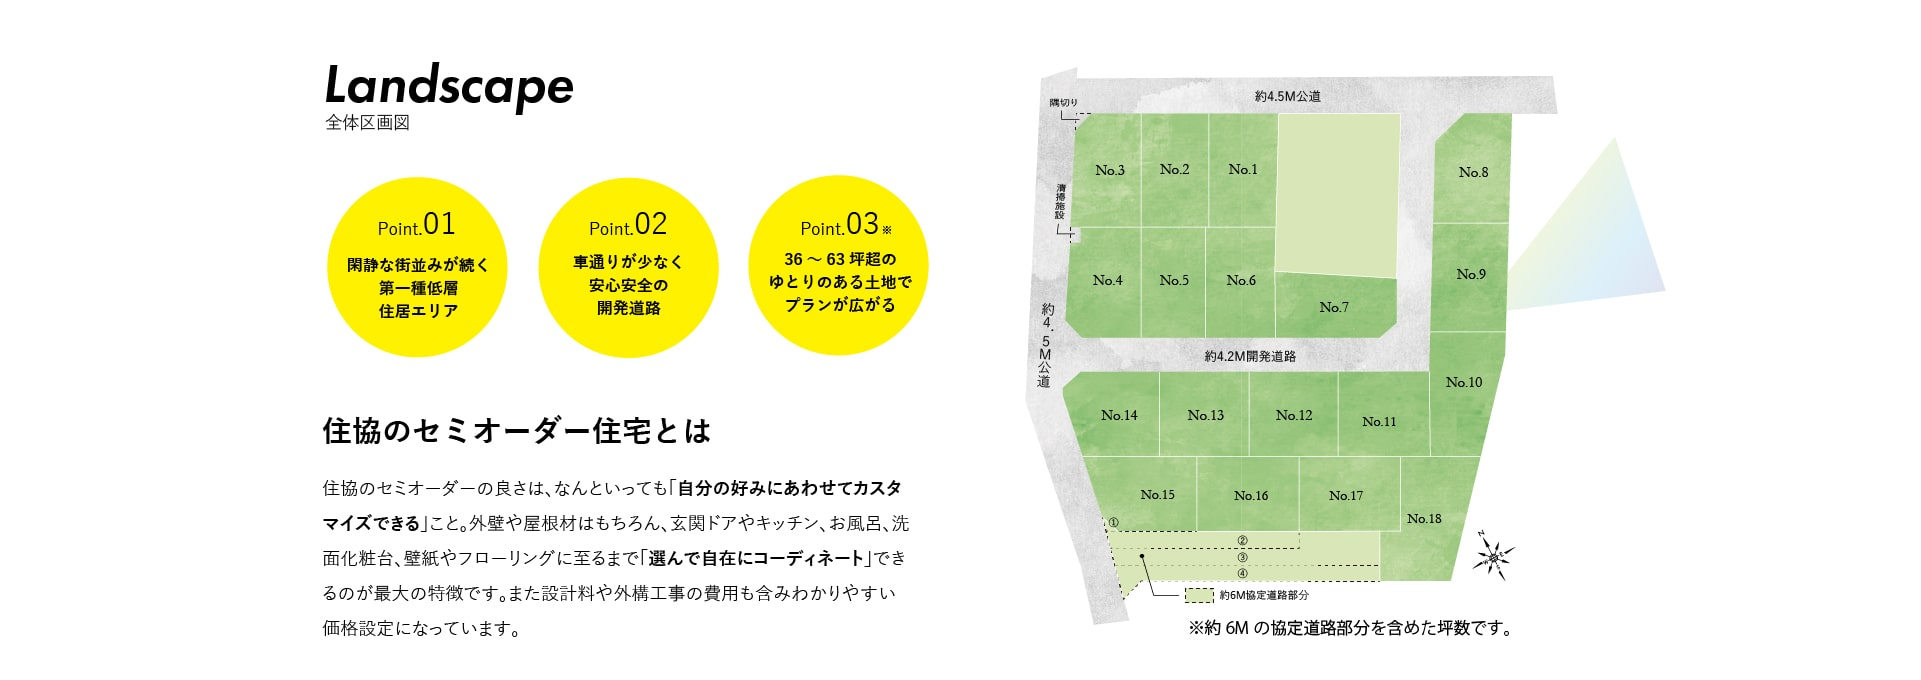
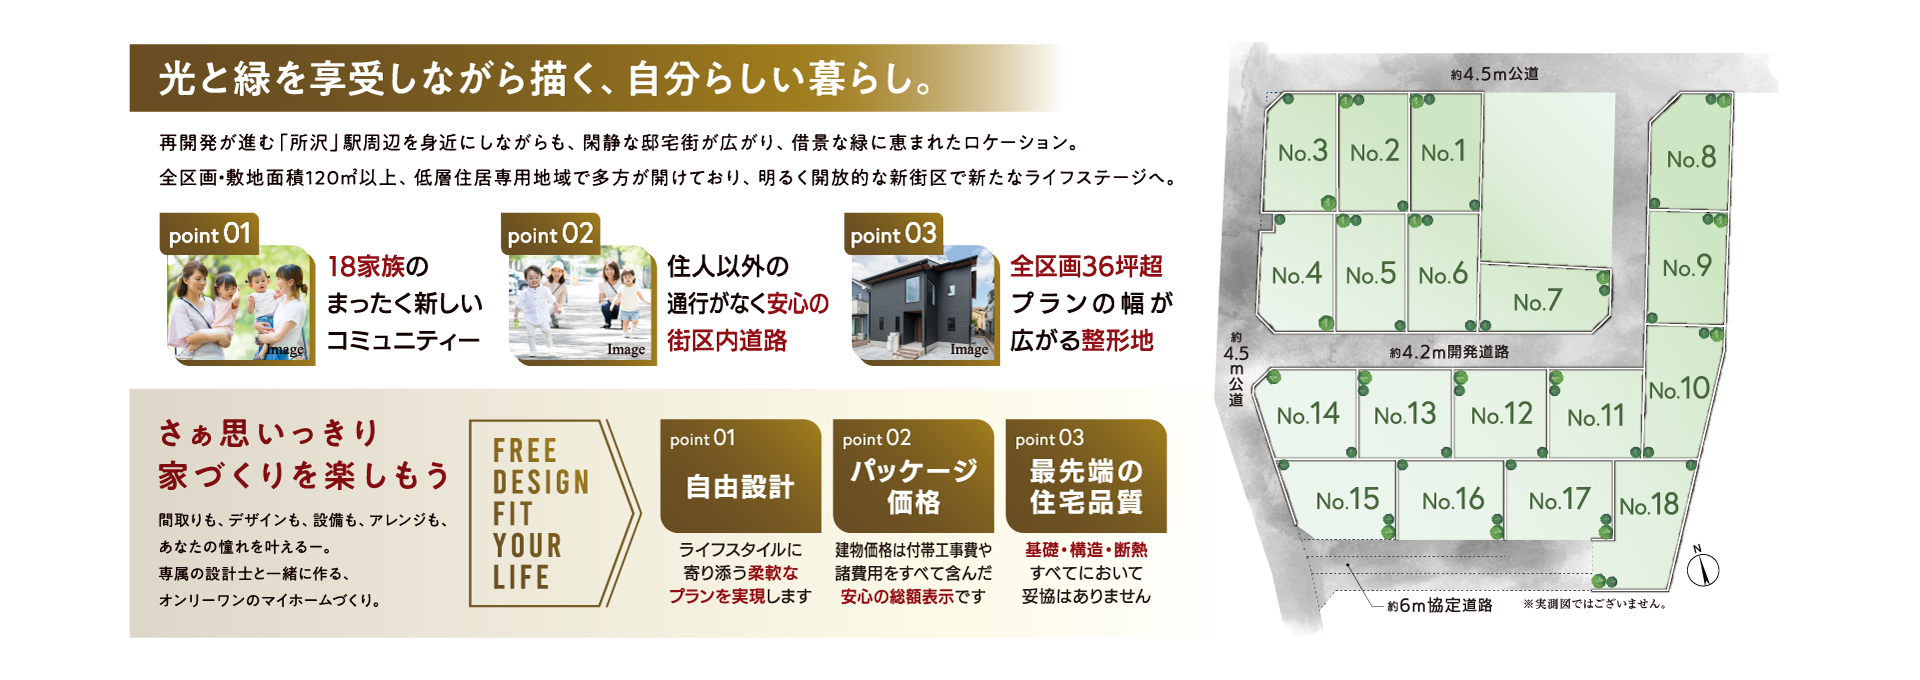
2023_0925修正
・画像更新
・STYLE修正

diff --git a/index.html b/index.html
@@ -88,9 +88,9 @@
         </div>
         <div class="l-container">
             <!-- 【　Header　】ファーストビュー -->
-            <div class="l-header l-contents -img-bg">
+            <div class="l-header l-contents -img-bg l-mgb_10">
                 <div class="imgBox">
-                    <img class="pc" src="images/bg/header-min.png" alt="物件の情報">
+                    <img class="pc" src="images/bg/header-min.jpg" alt="物件の情報">
                     <img class="sp" src="images/bg/header_s-min.jpg" alt="物件の情報">
                 </div>
             </div>
@@ -100,18 +100,35 @@
                 <img class="sp" src="images/bg/top_s02-min.jpg" alt="">
             </div>
             <!-- コンテンツ1 -->
-            <div id="content1" class="l-contents -img l-pdt_10">
+            <div id="content1" class="l-contents -img l-pdt_10 l-mgb_10">
                 <img class="pc" src="images/bg/land-min.jpg" alt="">
                 <img class="sp" src="images/bg/land_s-min.jpg" alt="">
             </div>
             <!-- ボタンエリア -->
-            <div class="l-contents -btnArea w1050 w93_s">
+            <div class="l-contents -btnArea w1050 w93_s l-mgb_5">
                 <div class="l-contentsBox -setsubiBtn">
-                    <a href="setsubi.html" class="l-linkImg -p03">
+                    <!-- 変更2023_0925 -->
+                    <div class="l-flex--area">
+                        <div class="l-flex--contents -btnArea_20230925 -w_7-3">
+                            <div class="flexItem l-mgb_4_s">
+                                <a href="https://suumo.jp/tochi/saitama/sc_tokorozawa/nc_72667915/" class="l-linkImg -p03">
+                                    <img src="images/btn/suumo-btn.png" alt="スーモプレミアム特集 グランシア所沢Ⅳ">
+                                </a>
+                            </div>
+                            <div class="flexItem -setsubiBtn">
+                                <a href="setsubi.html" class="l-linkImg -p03">
+                                    <img src="images/btn/setsubi_btn02_1-min.png" alt="複数のメーカーから選べる。多機能設備・仕様、詳細はコチラ">
+                                </a>
+                            </div>
+                        </div>
+                    </div>
+                    <!-- // 変更2023_0925 -->
+
+                    <!-- <a href="setsubi.html" class="l-linkImg -p03">
                         <img src="images/btn/setsubi_btn02_1-min.png" alt="複数のメーカーから選べる。多機能設備・仕様、詳細はコチラ">
-                    </a>
+                    </a> -->
                 </div>
-                <div class="l-contentsBox -contact-column3">
+                <div class="l-contentsBox -contact-column3 -v02">
                     <div class="l-flex--area">
                         <div class="l-flex--contents -columnBox03">
                             <div class="flexItem l-mgb_2_s">

diff --git a/css/style.css b/css/style.css
@@ -257,6 +257,12 @@ img {
 }
 
 @media screen and (max-width: 768px) {
+  .l-mgb_4_s {
+    margin-bottom: 4vh !important;
+  }
+}
+
+@media screen and (max-width: 768px) {
   .l-mgb_5_s {
     margin-bottom: 5vh !important;
   }
@@ -497,6 +503,7 @@ img {
 
 .l-container {
   height: auto;
+  overflow-x: hidden;
 }
 
 .l-contents {
@@ -607,7 +614,7 @@ img {
 }
 .l-contents.-btnArea {
   position: relative;
-  height: 60vh;
+  height: 70vh;
 }
 @media screen and (min-width: 767px) {
   .l-contents.-btnArea {
@@ -634,28 +641,35 @@ img {
   position: absolute;
 }
 .l-contents.-btnArea .l-contentsBox.-setsubiBtn {
-  top: 20%;
-  left: 55%;
+  top: 25%;
+  left: 50%;
   transform: translate(-50%, -50%);
-  width: 45%;
+  width: 85%;
 }
 @media screen and (min-width: 767px) {
   .l-contents.-btnArea .l-contentsBox.-setsubiBtn {
     top: 25%;
-    left: 52%;
-    width: 20%;
+    width: 80%;
   }
 }
 .l-contents.-btnArea .l-contentsBox.-contact-column3 {
-  top: 60%;
+  top: 63%;
   left: 50%;
   transform: translate(-50%, -50%);
   width: 70%;
 }
 @media screen and (min-width: 767px) {
   .l-contents.-btnArea .l-contentsBox.-contact-column3 {
-    top: 65%;
+    top: 60%;
     width: 90%;
+  }
+}
+.l-contents.-btnArea .l-contentsBox.-contact-column3.-v02 {
+  top: 80%;
+}
+@media screen and (min-width: 767px) {
+  .l-contents.-btnArea .l-contentsBox.-contact-column3.-v02 {
+    top: 70%;
   }
 }
 
@@ -751,6 +765,39 @@ img {
     width: 70%;
   }
 }
+.l-flex--area .l-flex--contents.-btnArea_20230925 {
+  display: flex;
+  flex-wrap: wrap;
+}
+@media screen and (min-width: 767px) {
+  .l-flex--area .l-flex--contents.-btnArea_20230925 {
+    flex-wrap: nowrap;
+    justify-content: space-around;
+  }
+}
+.l-flex--area .l-flex--contents.-btnArea_20230925 .flexItem {
+  width: 100%;
+  padding: 0 5%;
+}
+@media screen and (min-width: 767px) {
+  .l-flex--area .l-flex--contents.-btnArea_20230925 .flexItem {
+    width: 50%;
+    padding: 0 2%;
+  }
+}
+@media screen and (max-width: 768px) {
+  .l-flex--area .l-flex--contents.-btnArea_20230925 .flexItem.-setsubiBtn {
+    padding: 0 18%;
+  }
+}
+@media screen and (min-width: 767px) {
+  .l-flex--area .l-flex--contents.-btnArea_20230925.-w_7-3 .flexItem:first-child {
+    width: 60%;
+  }
+  .l-flex--area .l-flex--contents.-btnArea_20230925.-w_7-3 .flexItem:last-child {
+    width: 30%;
+  }
+}
 .l-flex--area .l-flex--contents.-columnBox03 {
   display: flex;
   flex-wrap: wrap;
@@ -763,7 +810,7 @@ img {
 }
 .l-flex--area .l-flex--contents.-columnBox03 .flexItem {
   width: 100%;
-  padding: 0 10%;
+  padding: 0 5%;
 }
 @media screen and (min-width: 767px) {
   .l-flex--area .l-flex--contents.-columnBox03 .flexItem {

diff --git a/scss/layout/_flex.scss b/scss/layout/_flex.scss
@@ -99,6 +99,39 @@
 					}
 				}
 		}
+		&.-btnArea_20230925{
+			display: flex;
+			flex-wrap: wrap;
+			@include mq(tb){
+				flex-wrap: nowrap;
+				justify-content: space-around;
+			}
+			.flexItem{
+				width: 100%;
+				padding: 0 5%;
+				@include mq(tb){
+					width: 50%;
+					padding: 0 2%;
+				}
+				&.-setsubiBtn{
+					@include mq(sp){
+						padding: 0 18%;
+					}
+				}
+			}
+			&.-w_7-3{
+				@include mq(tb){
+					.flexItem{
+						&:first-child{
+							width: 60%;
+						}
+						&:last-child{
+							width: 30%;
+						}
+					}
+				}
+			}
+		}
 		&.-columnBox03{
 			display: flex;
 			flex-wrap: wrap;
@@ -108,7 +141,7 @@
 			}
 			.flexItem{
 				width: 100%;
-				padding: 0 10%;
+				padding: 0 5%;
 				@include mq(tb){
 					width: 33.3333%;
 					padding: 0 2%;

diff --git a/scss/layout/_contents.scss b/scss/layout/_contents.scss
@@ -108,7 +108,7 @@
 	}
 	&.-btnArea{
 		position: relative;
-		height: 60vh;
+		height: 70vh;
 		@include mq(tb){
 			height: 60vh;
 		}
@@ -127,25 +127,31 @@
 		.l-contentsBox{
 			position: absolute;
 			&.-setsubiBtn{
-				top: 20%;
-				left: 55%;
+				top: 25%;
+				left: 50%;
 				transform: translate(-50%,-50%);
-				width: 45%;
+				width: 85%;
 				@include mq(tb){
 					top: 25%;
-					left: 52%;
-					width: 20%;
+					width: 80%;
 				}
 			}
 			&.-contact-column3{
-				top: 60%;
+				top: 63%;
 				left: 50%;
 				transform: translate(-50%,-50%);
 
 				width: 70%;
 				@include mq(tb){
-					top: 65%;
+					top: 60%;
 					width: 90%;
+				}
+
+				&.-v02{
+					top: 80%;
+					@include mq(tb){
+						top: 70%;
+					}
 				}
 			}
 		}

diff --git a/scss/layout/_base.scss b/scss/layout/_base.scss
@@ -186,6 +186,11 @@ img{
 		margin-bottom: 2vh !important;
 	}
 }
+.l-mgb_4_s{
+	@include mq(sp){
+		margin-bottom: 4vh !important;
+	}
+}
 .l-mgb_5_s{
 	@include mq(sp){
 		margin-bottom: 5vh !important;

diff --git a/scss/layout/_container.scss b/scss/layout/_container.scss
@@ -3,5 +3,6 @@
 .l-container{
 	// width: 100%;
 	height: auto;
+	overflow-x: hidden;
 }
 
